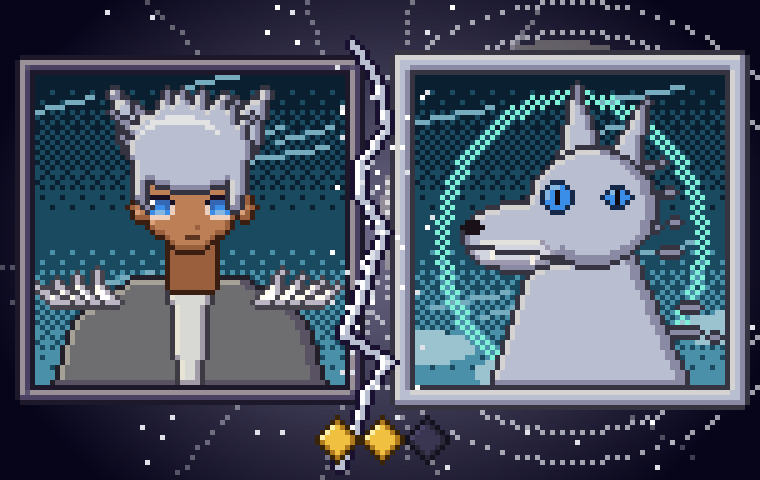
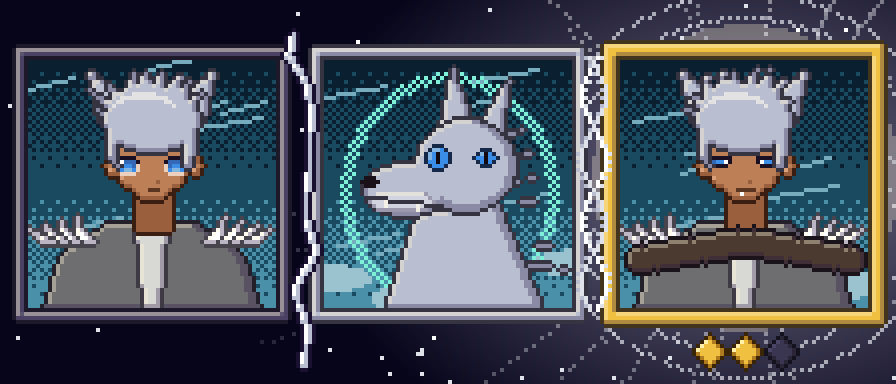
Transformação: terceiro quadro com o personagem depois da união, que vira a aparência dele na ficha
- dnaUniao: traços da fera somados ao retrato do jogador por estágio (rosto, cabelo, pele e roupa não mudam)
- arte em três quadros (antes, fera, união); avatar_dna guarda o retrato original em base

Claude-Session: https://claude.ai/code/session_0136a44thSob4pNJTx655Yjq

diff --git a/docs/47-transformacao-mistica.md b/docs/47-transformacao-mistica.md
@@ -1,7 +1,7 @@
 # 47 — Transformação mística dos Meio-humanos
 
 Código: `src/regras/fera.mjs` (dados e regras), `src/servidor/fera.mjs` (comandos), arte em `src/avatar/especiais.mjs` (`desenharTransformacao`).
-Exemplos da arte: `docs/img/fera-raposa-3.png`, `docs/img/fera-lobo-2.png`.
+Exemplos da arte: `docs/img/fera-raposa-3.png`, `docs/img/fera-lobo-2.png`, `docs/img/fera-dragao-3.png`.
 
 ## 47.1 Planejamento
 
@@ -49,6 +49,19 @@ Exemplos da arte: `docs/img/fera-raposa-3.png`, `docs/img/fera-lobo-2.png`.
 | dragão menor | 1 | Filhote de Dragão | **Sopro Menor** | golpe de força 1,5 e queimadura por 3 rodadas | 12 | 3 |
 |  | 2 | Dragão Alado | **Escamas** | corta 70% do dano por 2 rodadas | 14 | 5 |
 |  | 3 | Ryūjin, o Dragão Menor Desperto | **Voo Rasante** | golpe de força 2,5 que atravessa 30% da defesa | 28 | 5 |
+
+## 47.3b O personagem depois da união
+
+A arte tem **três quadros**: o personagem como era, a fera (com as cores dele) e, em destaque na moldura dourada, **o personagem depois da união**.
+Essa terceira imagem passa a ser a aparência dele de verdade: a `ficha` e a carta mostram o retrato novo a partir do despertar.
+
+| Estágio | O que o retrato ganha (todos os animais) | Por animal |
+|:---:|------------------------------------------|------------|
+| 1 | Presas e olhar de fera | Orelhas ou traço do animal (raposa, lobo, tigre; penas para o corvo; chifres pequenos para serpente e dragão) |
+| 2 | Pelagem no corpo e a marca da lua no rosto | Tigre: cicatriz · Corvo: pena · Coelho: rubor · Dragão: chifres de dragão |
+| 3 | Aura, fagulhas e olhos acesos | Serpente: olhos de dragão · Dragão: asas e sombra de dragão |
+
+Rosto, cabelo, cor do cabelo, cor dos olhos, pele e roupa **não mudam**: continua sendo o mesmo personagem. O retrato original fica guardado, e o que ele ganhar por outros caminhos (como a venda dos Olhos da Terra) é mantido.
 
 ## 47.4 Limites conhecidos
 
